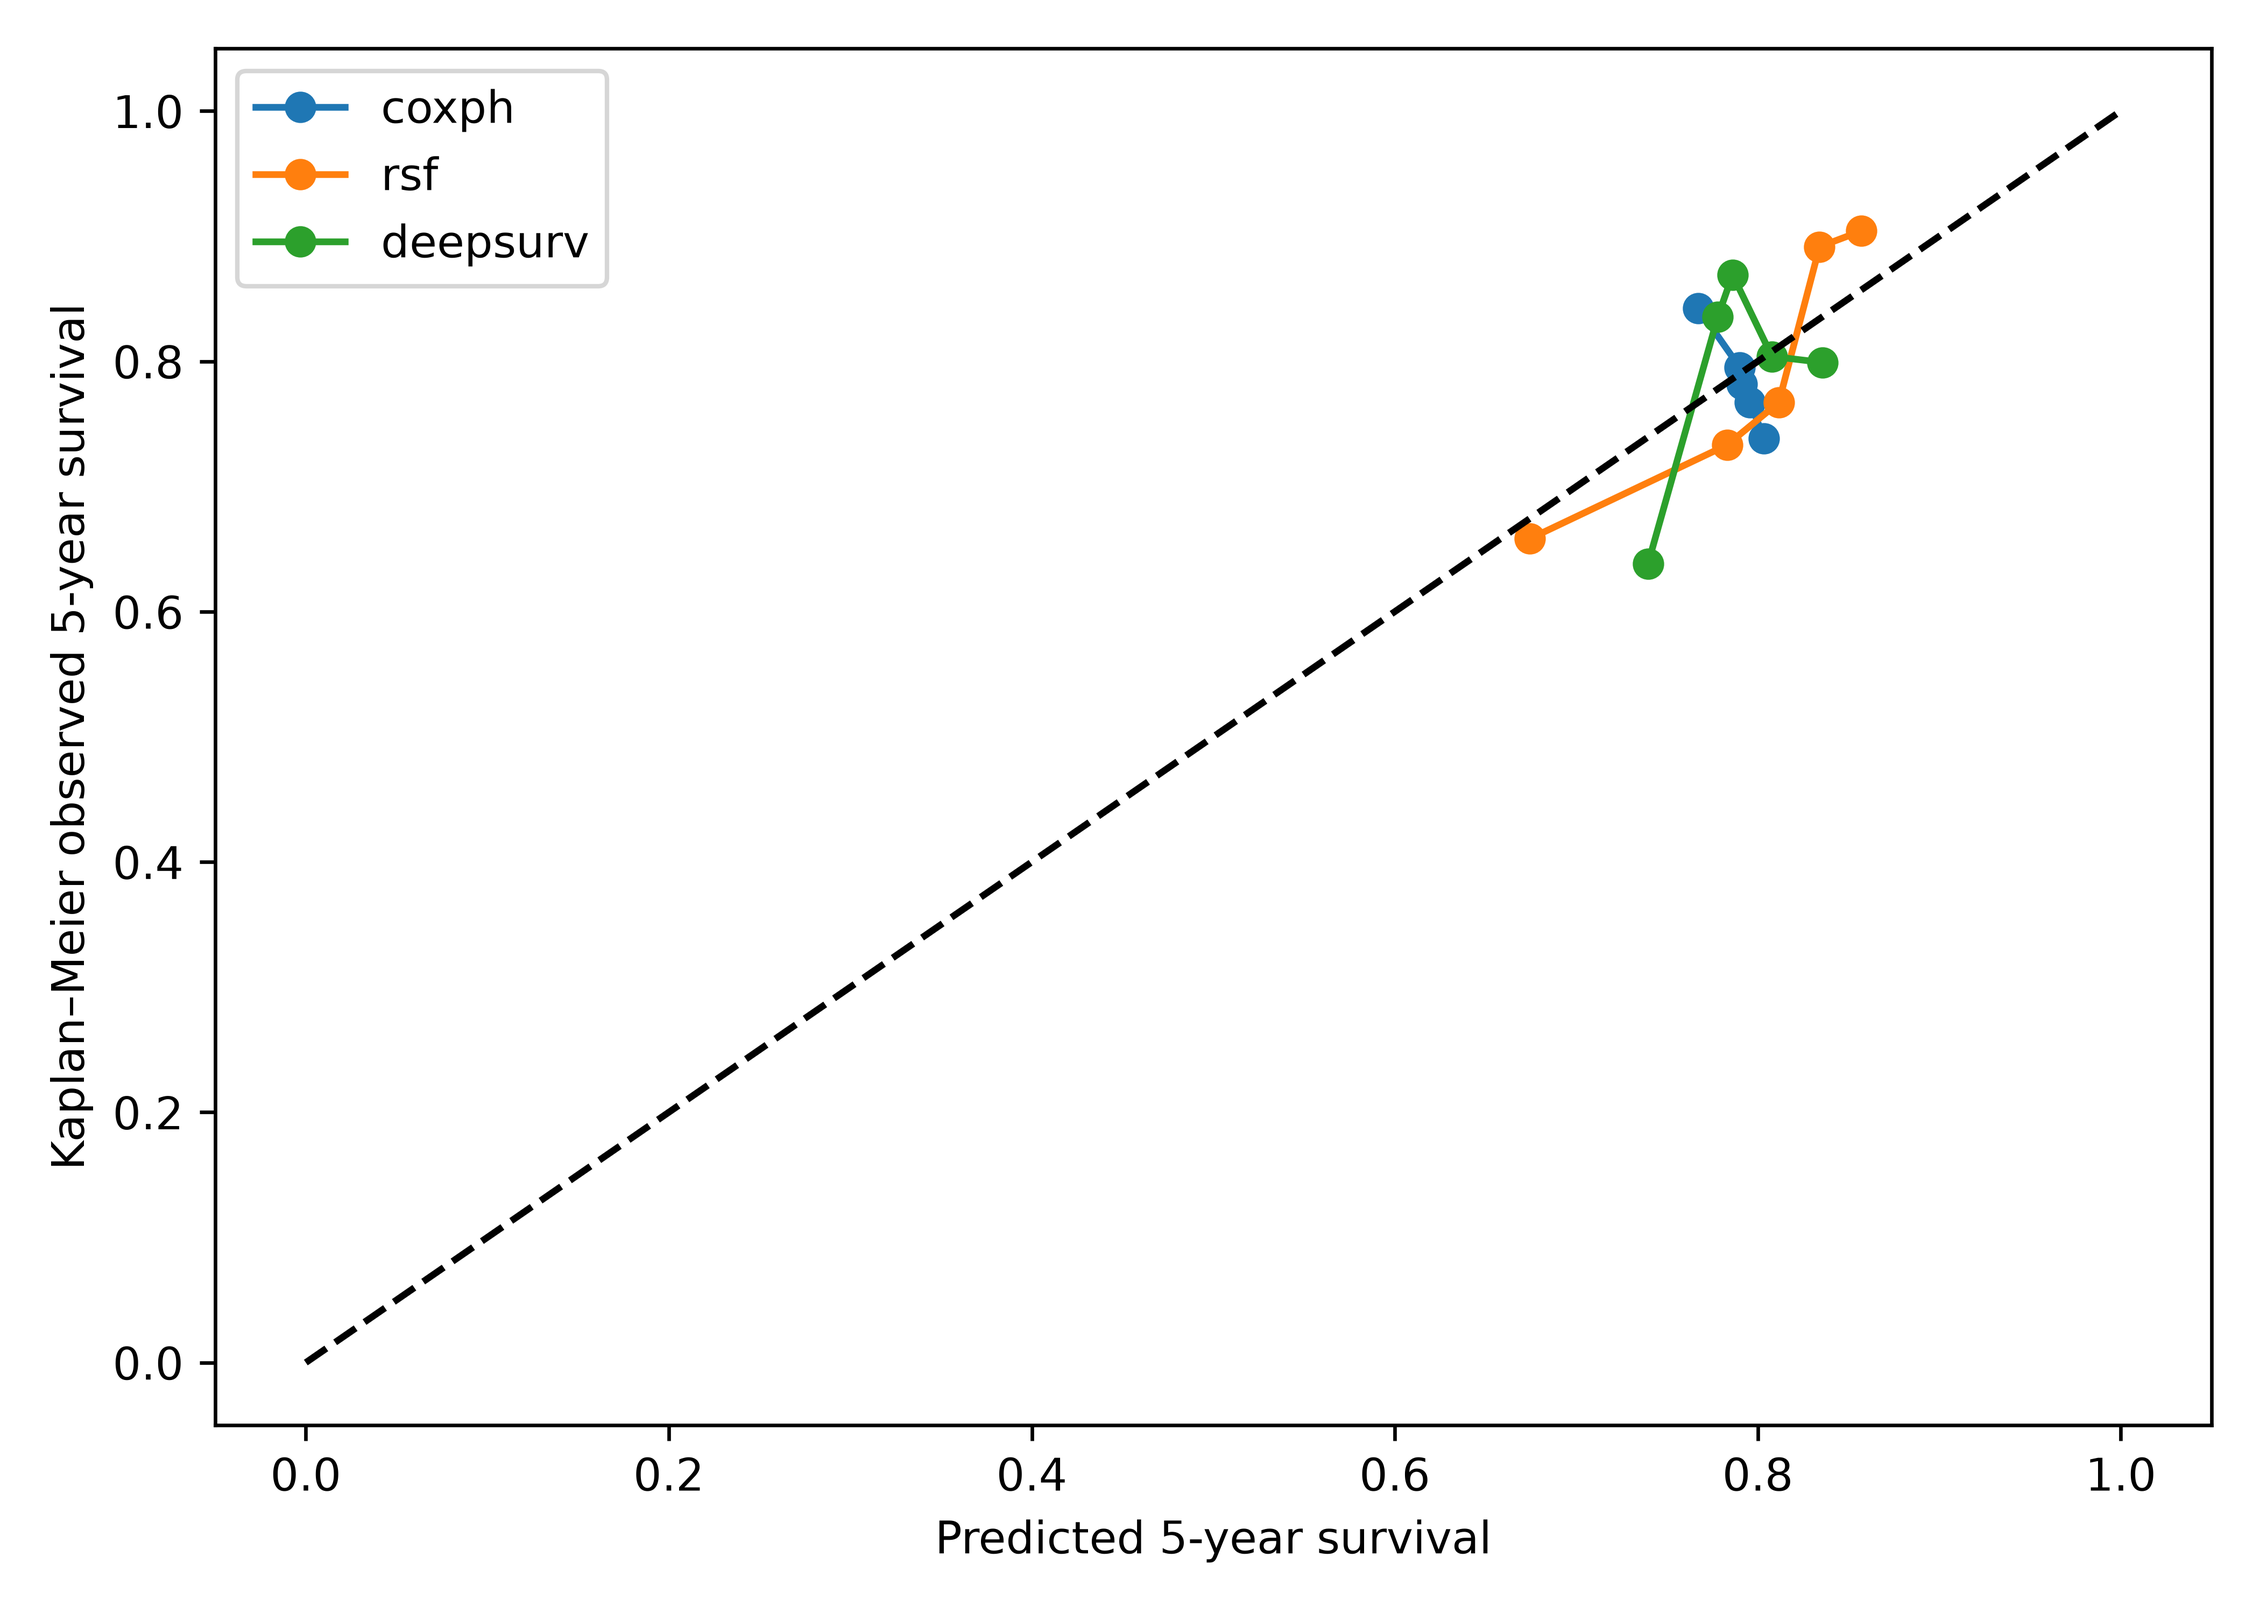
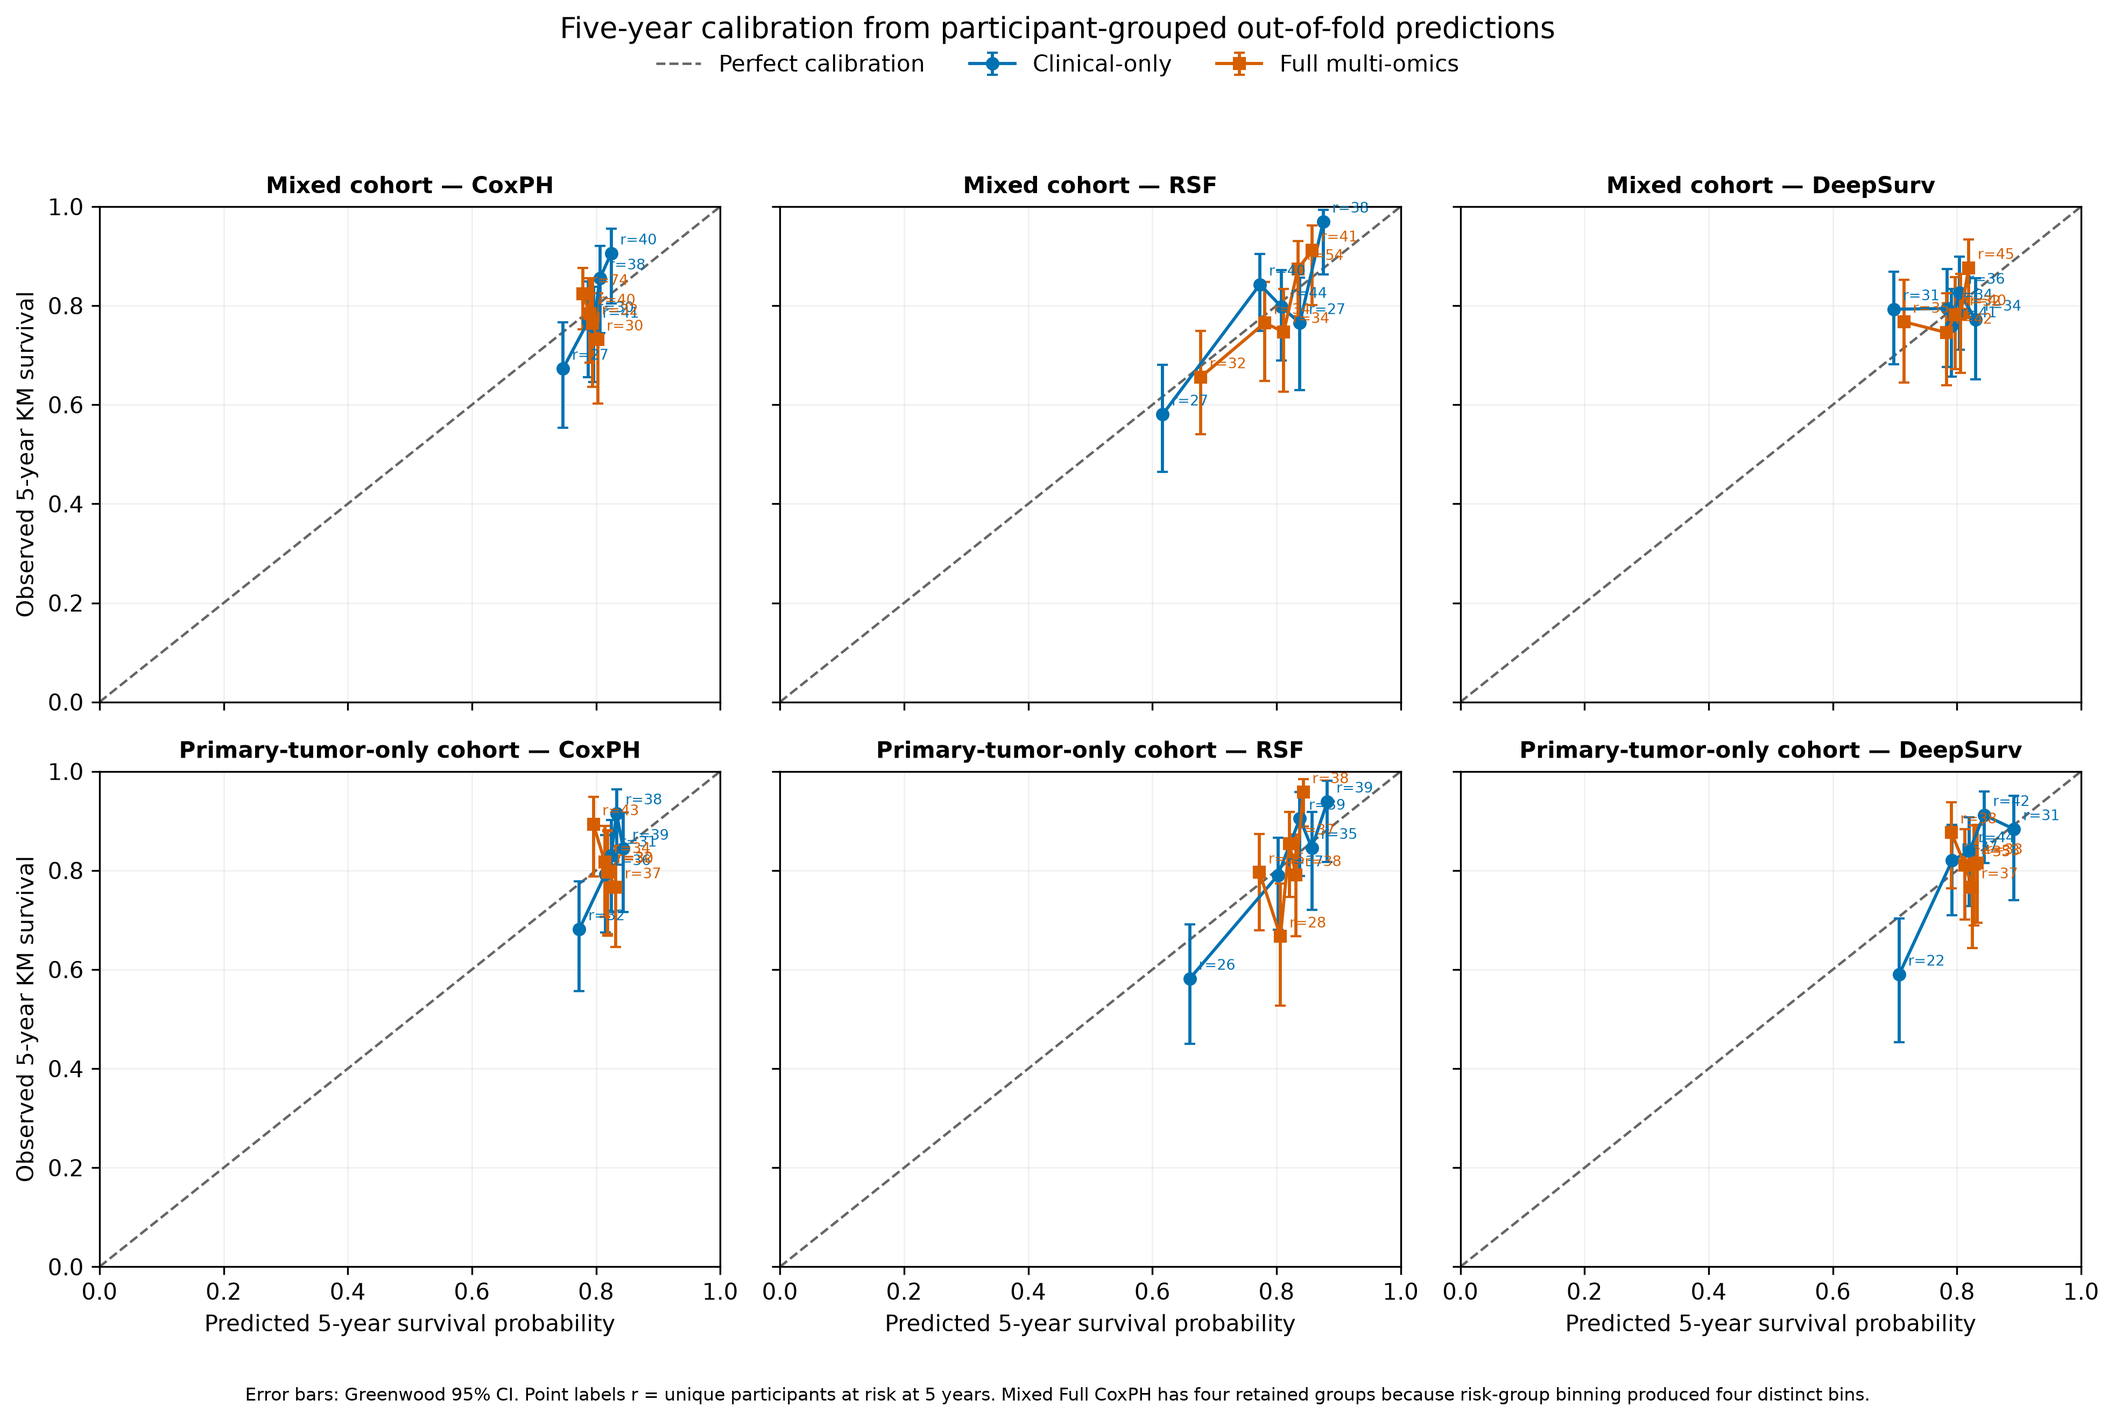
Generate corrected-model Figure S1 (calibration) and Figure S2 (SHAP summary) for primary-tumor-only cohort

diff --git a/src/explainability/plot_calibration.py b/src/explainability/plot_calibration.py
@@ -1,0 +1,34 @@
+#!/usr/bin/env python3
+"""Plot retained five-year calibration groups without recomputing statistics."""
+from __future__ import annotations
+import argparse,json
+from pathlib import Path
+import matplotlib.pyplot as plt
+import numpy as np
+
+COHORTS=(("mixed","Mixed cohort"),("primary","Primary-tumor-only cohort"))
+MODELS=(("coxph","CoxPH"),("rsf","RSF"),("deepsurv","DeepSurv"))
+CONFIGS=(("Clinical-only","Clinical-only","#0072B2","o"),("Full","Full multi-omics","#D55E00","s"))
+
+def main():
+ p=argparse.ArgumentParser(description=__doc__);p.add_argument('--input',type=Path,required=True);p.add_argument('--output',type=Path,required=True);p.add_argument('--dpi',type=int,default=300);a=p.parse_args();data=json.loads(a.input.read_text(encoding='utf-8'))
+ fig,axes=plt.subplots(2,3,figsize=(13.2,8.7),sharex=True,sharey=True)
+ for row,(cohort,cohort_label) in enumerate(COHORTS):
+  for col,(model,model_label) in enumerate(MODELS):
+   ax=axes[row,col];ax.plot([0,1],[0,1],ls='--',lw=1.1,color='#666666',label='Perfect calibration')
+   for config,label,color,marker in CONFIGS:
+    groups=data[cohort][config][model]['calibration_5year_groups']
+    valid=[g for g in groups if np.isfinite(g['predicted_survival_mean']) and np.isfinite(g['observed_km_survival']) and all(np.isfinite(g['greenwood_95_ci']))]
+    if not valid:
+     ax.text(.5,.5,f'{label}: not available',ha='center',va='center',transform=ax.transAxes,color=color);continue
+    x=np.array([g['predicted_survival_mean'] for g in valid]);y=np.array([g['observed_km_survival'] for g in valid]);lo=np.array([g['greenwood_95_ci'][0] for g in valid]);hi=np.array([g['greenwood_95_ci'][1] for g in valid]);order=np.argsort(x);x,y,lo,hi=x[order],y[order],lo[order],hi[order];ordered=[valid[i] for i in order]
+    ax.errorbar(x,y,yerr=np.vstack((y-lo,hi-y)),fmt=marker+'-',color=color,lw=1.4,ms=5,capsize=2.5,label=label)
+    for xx,yy,g in zip(x,y,ordered):ax.annotate(f"r={g['at_risk_unique_participants_at_5y']}",(xx,yy),xytext=(4,4),textcoords='offset points',fontsize=6.5,color=color)
+   ax.set_title(f'{cohort_label} — {model_label}',fontsize=10,fontweight='bold');ax.set_xlim(0,1);ax.set_ylim(0,1);ax.grid(alpha=.2,lw=.6)
+   if row==1:ax.set_xlabel('Predicted 5-year survival probability')
+   if col==0:ax.set_ylabel('Observed 5-year KM survival')
+ handles,labels=axes[0,0].get_legend_handles_labels();fig.legend(handles,labels,loc='upper center',ncol=3,frameon=False,bbox_to_anchor=(.5,.985))
+ fig.suptitle('Five-year calibration from participant-grouped out-of-fold predictions',fontsize=13,y=.998)
+ fig.text(.5,.012,'Error bars: Greenwood 95% CI. Point labels r = unique participants at risk at 5 years. Mixed Full CoxPH has four retained groups because risk-group binning produced four distinct bins.',ha='center',fontsize=8)
+ fig.tight_layout(rect=(0,.04,1,.94));a.output.parent.mkdir(parents=True,exist_ok=True);fig.savefig(a.output,dpi=a.dpi,bbox_inches='tight',facecolor='white');plt.close(fig);print(f'Wrote {a.output} ({a.dpi} DPI; 6 panels, 2 configurations per panel)')
+if __name__=='__main__':main()

diff --git a/src/explainability/plot_shap_summary.py b/src/explainability/plot_shap_summary.py
@@ -1,0 +1,24 @@
+#!/usr/bin/env python3
+"""Plot the retained corrected-cohort aggregate SHAP top-20 ranking."""
+from __future__ import annotations
+import argparse,json,textwrap
+from pathlib import Path
+import matplotlib.pyplot as plt
+import matplotlib as mpl
+import numpy as np
+
+def main():
+ p=argparse.ArgumentParser(description=__doc__);p.add_argument('--input',type=Path,required=True);p.add_argument('--output',type=Path,required=True);p.add_argument('--dpi',type=int,default=300);a=p.parse_args();data=json.loads(a.input.read_text(encoding='utf-8'));rows=data['aggregate_top20']
+ if len(rows)!=20:raise ValueError(f'Expected 20 aggregate features, found {len(rows)}')
+ features=[r['feature'] for r in rows][::-1];values=np.array([r['mean_abs_shap_across_folds_where_selected'] for r in rows][::-1]);folds=np.array([r['folds_selected'] for r in rows][::-1]);norm=mpl.colors.Normalize(vmin=1,vmax=5);cmap=mpl.colormaps['viridis'];colors=cmap(norm(folds))
+ fig,ax=plt.subplots(figsize=(11.5,8.5));bars=ax.barh(np.arange(len(rows)),values,color=colors,height=.72)
+ ax.set_yticks(np.arange(len(rows)),features,fontsize=8);ax.set_xlabel('Mean |SHAP| across folds where selected');ax.set_ylabel('Feature');ax.grid(axis='x',alpha=.22,lw=.6);ax.set_axisbelow(True)
+ offset=max(values)*.012
+ for bar,n in zip(bars,folds):ax.text(bar.get_width()+offset,bar.get_y()+bar.get_height()/2,f'{n}/5 folds',va='center',fontsize=7.5)
+ ax.set_xlim(0,max(values)*1.19);sm=mpl.cm.ScalarMappable(norm=norm,cmap=cmap);cbar=fig.colorbar(sm,ax=ax,pad=.015,fraction=.025,ticks=[1,2,3,4,5]);cbar.set_label('Folds in whose top 20',fontsize=8)
+ ax.set_title('Corrected primary-tumor-only full multi-omics DeepSurv: aggregate SHAP ranking',fontsize=12,fontweight='bold',pad=12)
+ caption=('Corrected primary-tumor-only cohort, full multi-omics DeepSurv model. Feature importance rankings are unstable across cross-validation folds '
+          '(mean pairwise top-20 Jaccard index = 0.024); this figure reflects one representative aggregate ranking, not a stable or reproducible signal.')
+ fig.text(.08,.015,'\n'.join(textwrap.wrap(caption,145)),ha='left',va='bottom',fontsize=8)
+ fig.tight_layout(rect=(0,.075,1,1));a.output.parent.mkdir(parents=True,exist_ok=True);fig.savefig(a.output,dpi=a.dpi,bbox_inches='tight',facecolor='white');plt.close(fig);print(f'Wrote {a.output} ({a.dpi} DPI; {len(rows)} bars; stored mean Jaccard={data["mean_pairwise_jaccard"]})')
+if __name__=='__main__':main()

diff --git a/docs/manuscript_table_mapping.md b/docs/manuscript_table_mapping.md
@@ -22,5 +22,5 @@ This document maps every manuscript-numbered table and supplementary figure in t
 | **Supplementary Table S1.** Full 20-feature SHAP ranking for the corrected primary-tumor-only model, with the previous superseded feature list retained for transparency. | `src/explainability/explain_model_v2.py`; legacy list from `src/explainability/explain_model.py` | `supplementary/table_s1_shap_full_ranking.csv`; `results/primary_tumor_only/shap_v2_results.json`; `results/mixed_cohort/shap_top_features.md` | Available; current and superseded results remain explicitly distinguished |
 | **Supplementary Table S2.** Full exploratory clinical-only versus full-multi-omics paired-bootstrap comparison results. | `src/evaluation/clinical_vs_omics_test.py` | `supplementary/table_s2_exploratory_clinical_vs_omics.csv`; `results/primary_tumor_only/clinical_vs_omics_test.json` | Available |
 | **Supplementary Table S3.** Fold-level CoxPH convergence and design-matrix diagnostics. | `src/evaluation/coxph_convergence_diagnostics.py` | `supplementary/table_s3_coxph_convergence_diagnostics.csv`; `results/primary_tumor_only/coxph_convergence_diagnostics.json` | Available; iteration counts unavailable where not retained by the original runs |
-| **Supplementary Figure S1.** Calibration plots from the legacy mixed-cohort analysis. | `src/evaluation/additional_metrics.py` | `supplementary/figure_s1_calibration_plots.png`; `results/mixed_cohort/calibration_5year.png` | Available; legacy/superseded mixed-cohort source, not a corrected-model figure |
-| **Supplementary Figure S2.** SHAP summary bar plot from the legacy mixed-cohort single-split analysis. | `src/explainability/explain_model.py` | `supplementary/figure_s2_shap_summary_bar.png`; `results/mixed_cohort/shap_omics_summary.png` | Available; legacy/superseded mixed single-split SHAP, not a corrected-model figure |
+| **Supplementary Figure S1.** Five-year calibration plots for the mixed and corrected primary-tumor-only cohorts. | `src/explainability/plot_calibration.py` | `supplementary/figure_s1_calibration_plots.png`; provenance: `supplementary/figure_s1_calibration_plots_readme.md`; data: `results/primary_tumor_only/additional_metrics_v2.json` | Available; includes corrected primary-tumor-only models and mixed-cohort comparison |
+| **Supplementary Figure S2.** Aggregate SHAP summary bar plot for the corrected primary-tumor-only full multi-omics DeepSurv model. | `src/explainability/plot_shap_summary.py` | `supplementary/figure_s2_shap_summary_bar.png`; data: `results/primary_tumor_only/shap_v2_results.json` | Available; corrected primary-tumor-only model, with cross-fold instability explicitly disclosed |

diff --git a/supplementary/figure_s1_calibration_plots_readme.md b/supplementary/figure_s1_calibration_plots_readme.md
@@ -1,0 +1,7 @@
+# Supplementary Figure S1 provenance
+
+`figure_s1_calibration_plots.png` was generated by `src/explainability/plot_calibration.py` from the retained calibration groups in `results/primary_tumor_only/additional_metrics_v2.json`.
+
+The six panels cover two cohorts (mixed and corrected primary-tumor-only) and three models (CoxPH, RSF, and DeepSurv). Each panel displays Clinical-only and Full multi-omics calibration series. Points are the stored mean predicted five-year survival and stored Kaplan–Meier five-year survival for each retained risk group; error bars are the stored Greenwood 95% confidence intervals. Point labels report the stored number of unique participants at risk at five years. The diagonal is a visual reference and no new model statistic was computed.
+
+All combinations contain finite retained calibration estimates. Mixed-cohort Full CoxPH contains four rather than five groups because the original `qcut(..., duplicates="drop")` calibration grouping retained four distinct bins; the figure displays all four without imputation or fabrication.
